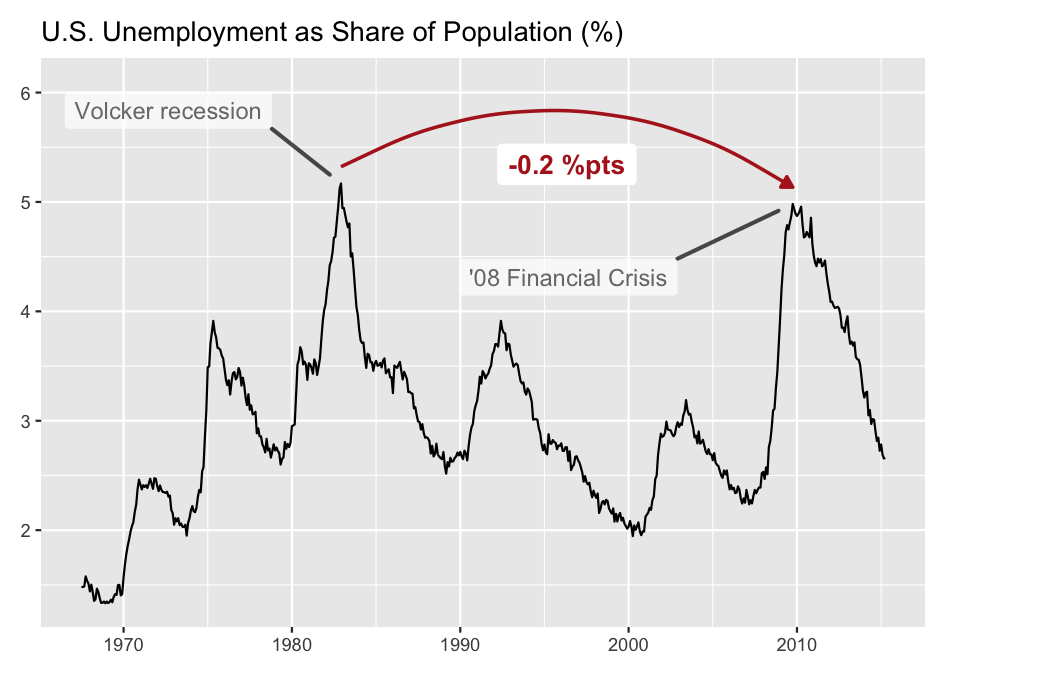
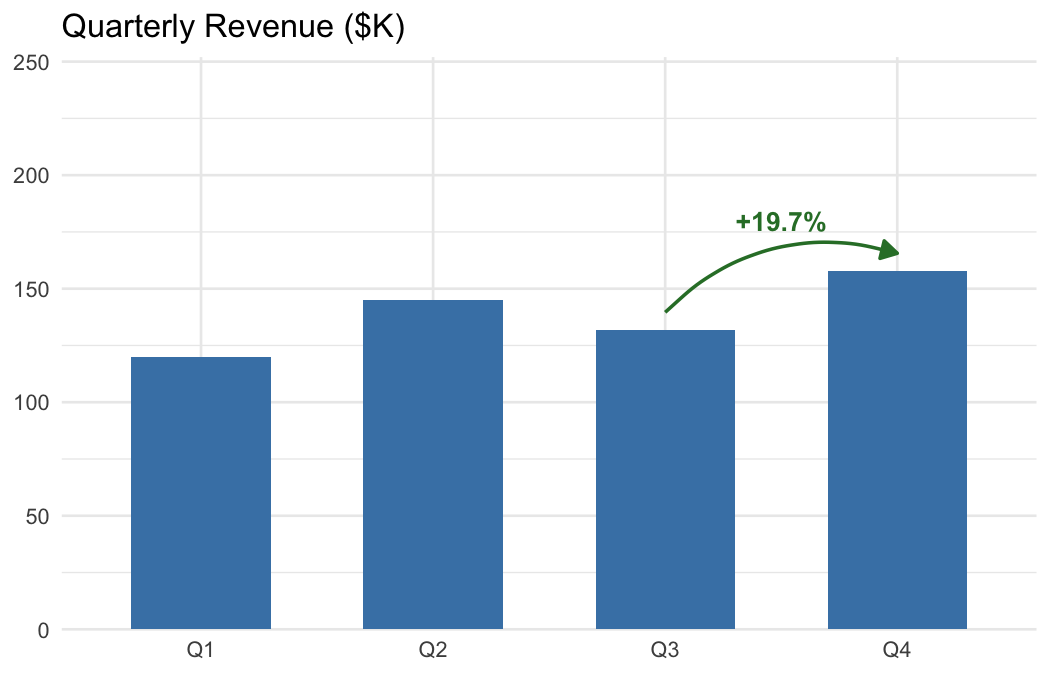
Deploying to gh-pages from @ lindsay-lintelman/ggmemo@40256e63deaeb408583a1752749d90a7a2609646 🚀

diff --git a/index.html b/index.html
@@ -185,35 +185,6 @@
 <span>  <span class="fu"><a href="https://ggplot2.tidyverse.org/reference/ggtheme.html" class="external-link">theme_minimal</a></span><span class="op">(</span><span class="op">)</span></span></code></pre></div>
 <p><img src="reference/figures/README-time-series-change-1.png" alt="" width="100%"></p>
 </div>
-<div class="section level3">
-<h3 id="change-annotation">Change annotation<a class="anchor" aria-label="anchor" href="#change-annotation"></a>
-</h3>
-<div class="sourceCode" id="cb4"><pre class="downlit sourceCode r">
-<code class="sourceCode R"><span><span class="co"># fig.width = 7, fig.height = 4.5, dpi = 150</span></span>
-<span><span class="va">quarterly_revenue</span> <span class="op">&lt;-</span> <span class="fu"><a href="https://rdrr.io/r/base/data.frame.html" class="external-link">data.frame</a></span><span class="op">(</span></span>
-<span>  quarter <span class="op">=</span> <span class="fu"><a href="https://rdrr.io/r/base/factor.html" class="external-link">factor</a></span><span class="op">(</span><span class="fu"><a href="https://rdrr.io/r/base/c.html" class="external-link">c</a></span><span class="op">(</span><span class="st">"Q1"</span>, <span class="st">"Q2"</span>, <span class="st">"Q3"</span>, <span class="st">"Q4"</span><span class="op">)</span>,</span>
-<span>                   levels <span class="op">=</span> <span class="fu"><a href="https://rdrr.io/r/base/c.html" class="external-link">c</a></span><span class="op">(</span><span class="st">"Q1"</span>, <span class="st">"Q2"</span>, <span class="st">"Q3"</span>, <span class="st">"Q4"</span><span class="op">)</span><span class="op">)</span>,</span>
-<span>  revenue <span class="op">=</span> <span class="fu"><a href="https://rdrr.io/r/base/c.html" class="external-link">c</a></span><span class="op">(</span><span class="fl">120</span>, <span class="fl">145</span>, <span class="fl">132</span>, <span class="fl">158</span><span class="op">)</span></span>
-<span><span class="op">)</span></span>
-<span></span>
-<span><span class="fu"><a href="https://ggplot2.tidyverse.org/reference/ggplot.html" class="external-link">ggplot</a></span><span class="op">(</span><span class="va">quarterly_revenue</span>, <span class="fu"><a href="https://ggplot2.tidyverse.org/reference/aes.html" class="external-link">aes</a></span><span class="op">(</span>x <span class="op">=</span> <span class="va">quarter</span>, y <span class="op">=</span> <span class="va">revenue</span><span class="op">)</span><span class="op">)</span> <span class="op">+</span></span>
-<span>  <span class="fu"><a href="https://ggplot2.tidyverse.org/reference/geom_bar.html" class="external-link">geom_col</a></span><span class="op">(</span>fill <span class="op">=</span> <span class="st">"steelblue"</span>, width <span class="op">=</span> <span class="fl">0.6</span><span class="op">)</span> <span class="op">+</span></span>
-<span>  <span class="fu"><a href="reference/annotate_change.html">annotate_change</a></span><span class="op">(</span></span>
-<span>    <span class="va">quarterly_revenue</span>,</span>
-<span>    from <span class="op">=</span> <span class="va">quarter</span> <span class="op">==</span> <span class="st">"Q3"</span>,</span>
-<span>    to <span class="op">=</span> <span class="va">quarter</span> <span class="op">==</span> <span class="st">"Q4"</span>,</span>
-<span>    value <span class="op">=</span> <span class="va">revenue</span>,</span>
-<span>    arrow_pad <span class="op">=</span> <span class="fl">.2</span>,</span>
-<span>    curvature <span class="op">=</span> <span class="op">-</span><span class="fl">.3</span>,</span>
-<span>    arrow_type <span class="op">=</span> <span class="st">"closed"</span>,</span>
-<span>    y <span class="op">=</span> <span class="fl">180</span>,</span>
-<span>    fill <span class="op">=</span> <span class="cn">NA</span></span>
-<span>  <span class="op">)</span> <span class="op">+</span></span>
-<span>  <span class="fu"><a href="https://ggplot2.tidyverse.org/reference/scale_continuous.html" class="external-link">scale_y_continuous</a></span><span class="op">(</span>expand <span class="op">=</span> <span class="fu"><a href="https://ggplot2.tidyverse.org/reference/expansion.html" class="external-link">expansion</a></span><span class="op">(</span>mult <span class="op">=</span> <span class="fu"><a href="https://rdrr.io/r/base/c.html" class="external-link">c</a></span><span class="op">(</span><span class="fl">0</span>, <span class="fl">0.4</span><span class="op">)</span><span class="op">)</span><span class="op">)</span> <span class="op">+</span></span>
-<span>  <span class="fu"><a href="https://ggplot2.tidyverse.org/reference/labs.html" class="external-link">labs</a></span><span class="op">(</span>title <span class="op">=</span> <span class="st">"Quarterly Revenue ($K)"</span>, x <span class="op">=</span> <span class="cn">NULL</span>, y <span class="op">=</span> <span class="cn">NULL</span><span class="op">)</span> <span class="op">+</span></span>
-<span>  <span class="fu"><a href="https://ggplot2.tidyverse.org/reference/ggtheme.html" class="external-link">theme_minimal</a></span><span class="op">(</span>base_size <span class="op">=</span> <span class="fl">13</span><span class="op">)</span></span></code></pre></div>
-<p><img src="reference/figures/README-change-1.png" alt="" width="100%"></p>
-</div>
 </div>
 <div class="section level2">
 <h2 id="learning-more">Learning more<a class="anchor" aria-label="anchor" href="#learning-more"></a>

diff --git a/index.md b/index.md
@@ -116,37 +116,6 @@ ggplot(econ, aes(x = date, y = unemp_rate)) +
 
 ![](reference/figures/README-time-series-change-1.png)
 
-### Change annotation
-
-``` r
-
-# fig.width = 7, fig.height = 4.5, dpi = 150
-quarterly_revenue <- data.frame(
-  quarter = factor(c("Q1", "Q2", "Q3", "Q4"),
-                   levels = c("Q1", "Q2", "Q3", "Q4")),
-  revenue = c(120, 145, 132, 158)
-)
-
-ggplot(quarterly_revenue, aes(x = quarter, y = revenue)) +
-  geom_col(fill = "steelblue", width = 0.6) +
-  annotate_change(
-    quarterly_revenue,
-    from = quarter == "Q3",
-    to = quarter == "Q4",
-    value = revenue,
-    arrow_pad = .2,
-    curvature = -.3,
-    arrow_type = "closed",
-    y = 180,
-    fill = NA
-  ) +
-  scale_y_continuous(expand = expansion(mult = c(0, 0.4))) +
-  labs(title = "Quarterly Revenue ($K)", x = NULL, y = NULL) +
-  theme_minimal(base_size = 13)
-```
-
-![](reference/figures/README-change-1.png)
-
 ## Learning more
 
 - [`vignette("narrating-business-charts")`](https://lindsay-lintelman.github.io/ggmemo/articles/narrating-business-charts.md)